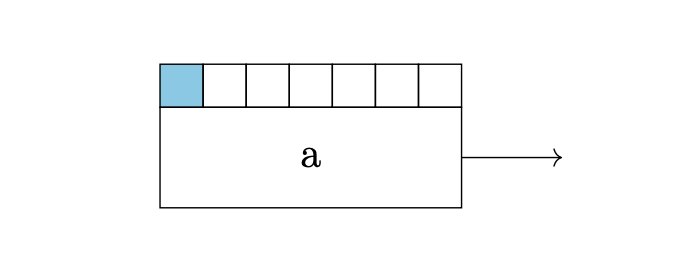
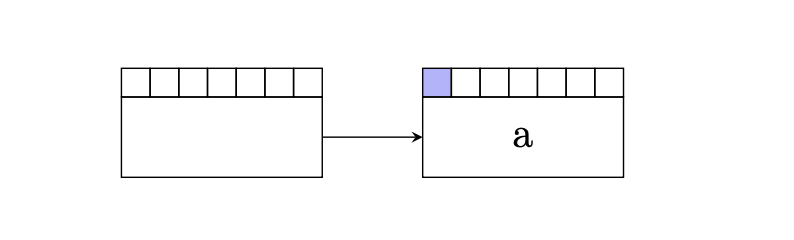
Adds description of estimated future cost, updates pngs

Changed region(s): [[0.1504, 0.2042, 0.8123, 0.7583], [0.3911, 0.525, 0.5415, 0.6125]]

diff --git a/docs/posts/phrase_based_models.md b/docs/posts/phrase_based_models.md
@@ -140,7 +140,7 @@ This most optimal translation will then be our sentence $\mathbf{e}$.
 In order to easily construct a set of translation options of $\mathbf{f}$, we'll need to use a data structure known as a **hypothesis**. 
 A hypothesis of $\mathbf{f}$ is a node in a linked list that translates 
 one phrase $(f_{i}, f_{i+1}, \dots, f_{i + n})$ in $\mathbf{f}$ into an English phrase. Forming a linked list 
-of a set of hypotheses then allows us to propose one translation option of $\mathbf{f}$ into English.
+of a set of hypotheses then allows us to propose one sentence translation option of $\mathbf{f}$ into English.
 
 To motivate the hypothesis data structure, let us given an example of such a linked list.
 Consider the French sentence `un comite de selection a ete constitue`, 
@@ -153,7 +153,12 @@ Since we are an all-knowing French-English translator, we know the first thing t
 is `un` which translates to the English word `a`. We'd write this down as a hypothesis like so. 
 <img src="/png/phase_based_models/a.png" style="margin: 0 auto; display: block; width: 50%;"/> 
 
-We color in the first square to indicate that the first word in our foreign sentence has been translated.
+Here we'll note a couple of things about the above diagram.
+
+* We initialize this linked list data structure with an **empty hypothesis**. 
+This is emphasized in the above diagram with the empty hypothesis on the left. 
+* We color in the first square to indicate the first word in our foreign sentence has been translated.
+Later, we'll use a different color to differentiate between the most recently translated words by a hypothesis.
 
 Next, we see `comite de selection`, which roughly translates to `committee of selection`. Because we're all-knowing, we know 
 that a better translation is actually `selection committee`. Thus, we'd know that it is better to first 
@@ -217,8 +222,8 @@ def all_remaining_subphrase(words_translated, sentence):
     return subphrases
 ```
 
-One can understand what this function does by reading it, but it might be faster to see what it does by simply 
-looking at one sample run on it. 
+For simplicity, this function simply works on integers, versus actual words and sentences, but the point 
+of this function is so that we can call it and obtain functionality as below. 
 
 ```python
 [ins] In [45]: all_remaining_subphrase([], [1, 2, 3, 4])
@@ -341,7 +346,7 @@ translating phrases requires going out of order (e.g. think of our earlier examp
 
 The purpose of putting our hypotheses into stacks is so that we can perform **pruning**. Pruning allows us to cap 
 the number of hypotheses allowed in each stack. This number can range from 10, 100, 1000, etc., and is known as the 
-`stack size` or `beam size`. This, in essence, is why we call this a beam search, since we are building a large search space 
+**stack size** or **beam size**. This, in essence, is why we call this a beam search, since we are building a large search space 
 but we are limiting the number of search options we will allow ourselves to sift through.
 
 By pruning, we can implement a phrase-based decoder with the following pseudocode. 
@@ -374,10 +379,38 @@ the original Koehn et. al. paper was to cap the stack size by keeping the hypoth
 That is, whenever a stack reaches a limit during decoding, and we want to add a new hypothesis to it, we 
 must either
 
-* replace an existing hypothesis in the stack with the new hypothesis if the existing has a smaller future cost
+* replace an existing hypothesis in the stack with the new hypothesis if the existing has a higher future cost than the new hypothesis
 * throw away the new hypothesis we're trying to add, and leave the stack alone
 
 The choice we make depends on the estimated future cost of all the hypotheses in the stack and the new hypothesis. 
 We keep whichever future cost is lower. 
 
-## Estimated Future Cost
+## Estimated Future Cost 
+
+To compute the future cost of a hypothesis, we need to look at what foreign words have not yet been translated by a
+hypothesis. For example, consider this hypothesis.
+
+<!-- show to eat hypothesis -->
+
+In this example, we see that the foreign words `antes de la fiesta` have yet to be translated by our hypothesis. 
+However, we can have slightly more complicated hypotheses that jump around the sentence. For example, consider 
+this hypothesis.
+
+<!-- to eat before -->
+
+We see that there are actually 2 phrases of foreign words that have yet to be translated. 
+
+In any case, what is clear is that for any hypothesis, there exist a certain number of phrases that have yet to be translated. 
+Therefore, the way we compute the future cost is as follows:
+For each remaining untranslated foreign phrase, we 
+
+* Find the cheapest English translation of the phrase (there could be many; choose the one which the phrase translation 
+  model scores the best).
+* Compute the language model cost of the English translation. 
+* Multiply these quantities (or add these quantities, if working in log-space). The result is the estimated future translation cost for this foreign phrase. 
+* If the hypothesis has multiple untranslated foreign phrases, perform this procedure on each foreign phrase and add up the cost. 
+
+This estimation of the future cost actually ignores the distortion cost, but experiments show that that's mostly okay to ignore.
+Additionally, ignoring the contribution of the distortion also allows us to precompute all of these values into a 
+**future cost table**. Then at decoding time, we can reference this table at any time to lookup 
+
